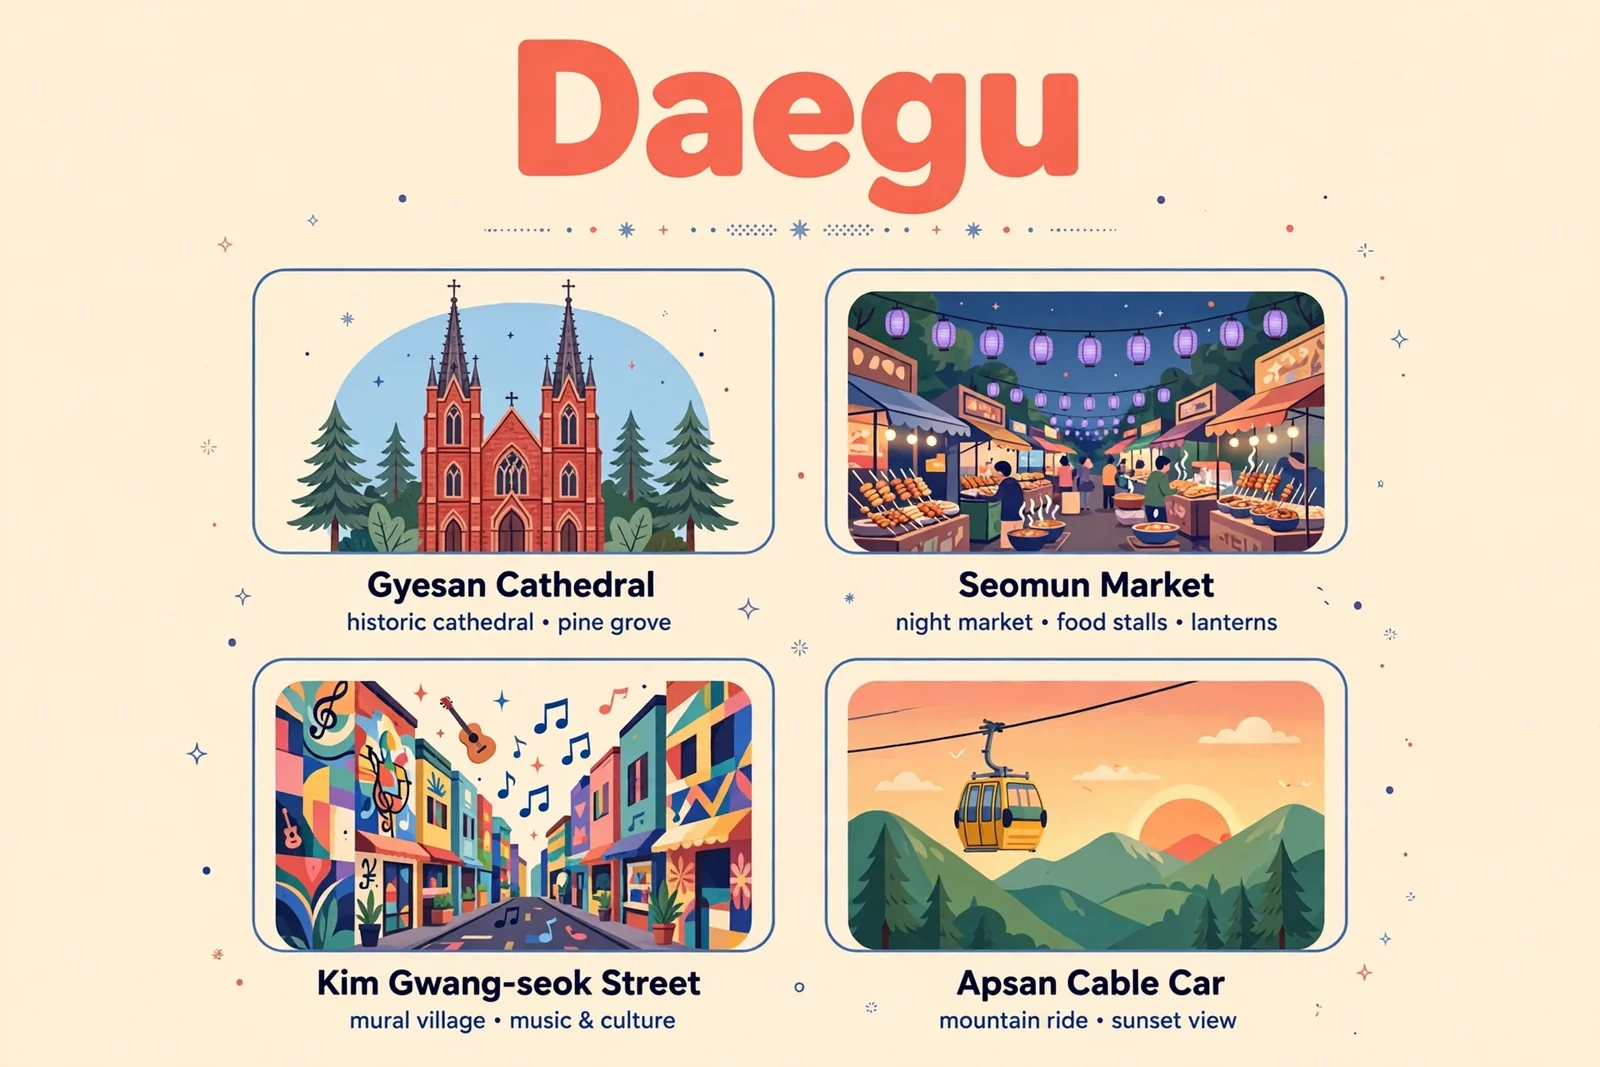
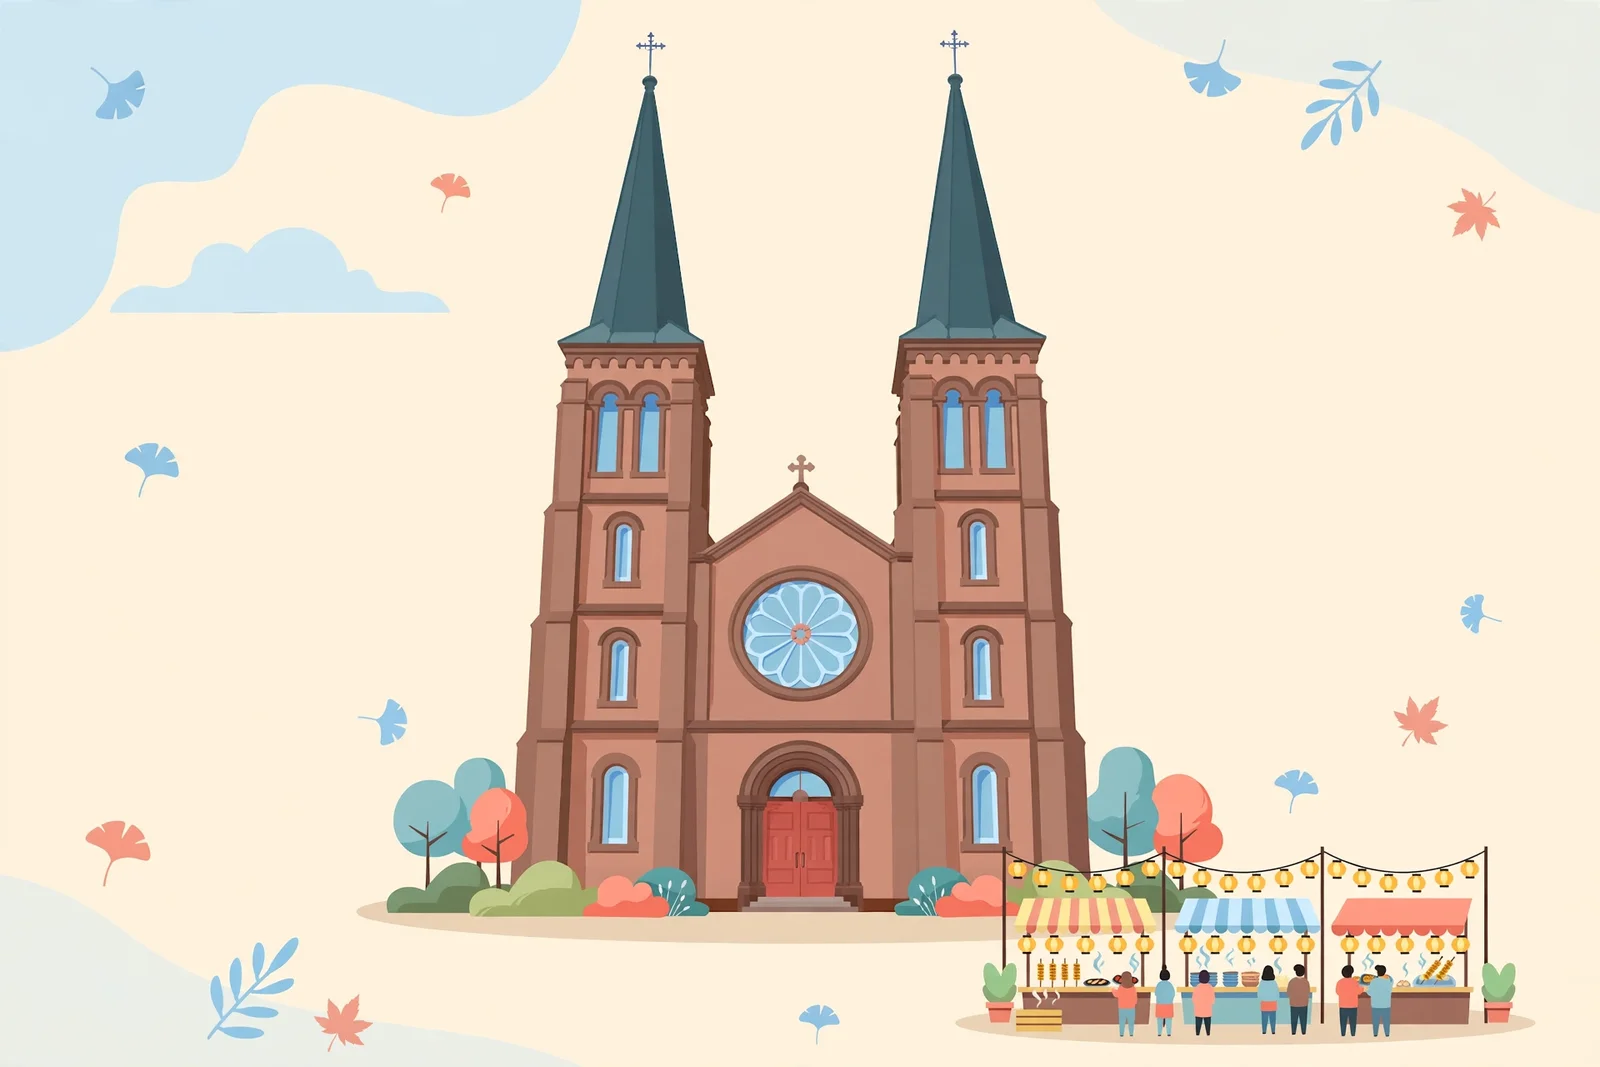
Hubs: replace Daegu and Gwangju mood illustrations (text-free scene redesign)
Daegu: Gyesan Cathedral with a Seomun night market stall row.
Gwangju: Mudeungsan ridges with the May 18 Democracy Square fountain.
Both 1600x1067, no text in the art, ~67KB/92KB. CREDITS updated.

diff --git a/static/images/photos/CREDITS.md b/static/images/photos/CREDITS.md
@@ -157,8 +157,8 @@ Flat vector guidebook illustrations (GPT image generation, 2026-11-19). Not phot
 | jeonju-mood.webp | Jeonju hub mood: hanok rooftops, bibimbap bowl, traditional gate, lanterns | 1600x1067 | AI-generated | - | GPT image generation, 2026-11-19 |
 | gyeonggi-suwon-mood.webp | Suwon hub mood: Hwaseong Fortress wall and gate, palace pavilion, walking trail | 1600x1067 | AI-generated | - | GPT image generation, 2026-11-19 |
 | daejeon-mood.webp | Daejeon hub mood: bakery storefront with bread loaf sign, fried bread bun and chive bread on a tray, Expo Bridge arches, Hanbit Tower, pine trees | 1600x1067 | AI-generated | - | GPT image generation, 2026-11-19. Illustration: AI-generated |
-| daegu-mood.webp | Daegu hub mood: Gyesan Cathedral, Seomun Night Market, Kim Gwang-seok Street, Apsan Cable Car at sunset | 1600x1067 | AI-generated | - | Media image generation, 2026-11-19. Generated 1920x1280, Lanczos resized to 1600x1067. Illustration: AI-generated |
-| gwangju-mood.webp | Gwangju hub mood: Mudeungsan, May 18 Democracy Square, Asia Culture Center, Tteokgalbi plate | 1600x1067 | AI-generated | - | Media image generation, 2026-11-19. Generated 1920x1280, Lanczos resized to 1600x1067. Illustration: AI-generated |
+| daegu-mood.webp | Daegu hub mood: Gyesan Cathedral (brick twin towers, rose window, red doors) as the main subject, with a Seomun night market row of lit food stalls in the foreground. No text in the art | 1600x1067 | AI-generated | - | GPT image generation, 2026-11-20 (redesign, replaces the 2026-11-19 four-panel version). Generated 1600x1067, webp q=85. Illustration: AI-generated |
+| gwangju-mood.webp | Gwangju hub mood: Mudeungsan columnar rock ridges as the main subject, with the May 18 Democracy Square fountain, flags and pavilion below. No text in the art | 1600x1067 | AI-generated | - | GPT image generation, 2026-11-20 (redesign, replaces the 2026-11-19 four-panel version). Generated 1600x1067, webp q=85. Illustration: AI-generated |
 
 ## stage3 real photos (2026-11-19)
 
